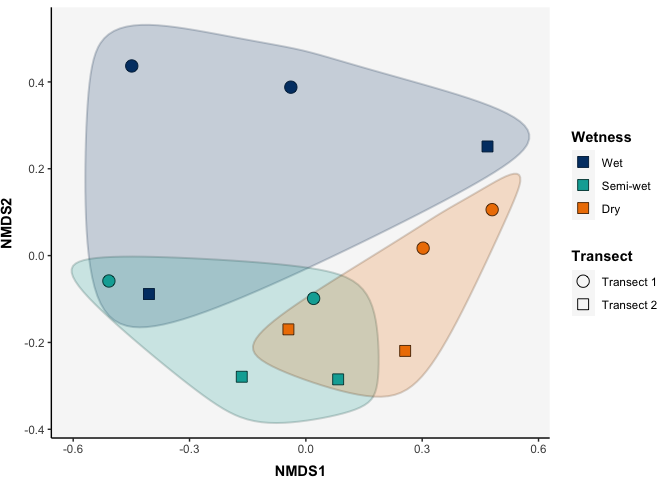
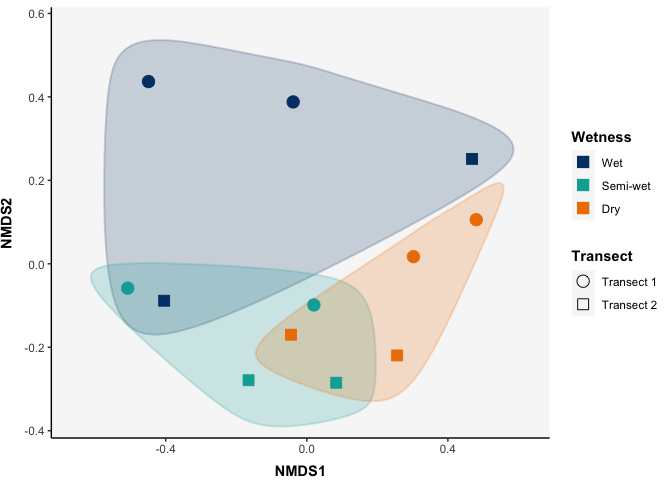
Add color scales to README.

diff --git a/README.md b/README.md
@@ -48,9 +48,9 @@ qaanaaq_rRNA_sub <- subset_samples(qaanaaq_rRNA,
                                    Transect != "Non-transect") 
 
 vis_abundance(physeq = qaanaaq_rRNA_sub,
-              group_x = SampleName,
-              group_split = Wetness,
-              level_glom = Phylum,
+              group_x = "SampleName",
+              group_split = "Wetness",
+              level_glom = "Phylum",
               level_select = NULL,
               group_select = NULL,
               lower_limit = 2,
@@ -73,12 +73,12 @@ cluster based on the available metadata, e.g., wetness.
 
 ``` r
 vis_nmds(qaanaaq_rRNA_sub,
-         convert_to_rel = TRUE,
-         group_color = Wetness,
-         group_shape = Transect,
+         group_color = "Wetness",
+         group_shape = "Transect",
          encircle = TRUE,
          fill_circle = TRUE,
-         scale_circle = 0.09)
+         scale_circle = 0.09,
+         scale_plot = 0.3)
 ```
 
 <div class="figure">
@@ -87,5 +87,15 @@ vis_nmds(qaanaaq_rRNA_sub,
 <p class="caption">
 NMDS plot.
 </p>
+
+</div>
+
+## Details
+
+The available color scales can be seen below.
+
+<div align="right">
+
+<img src="https://github.com/johanneBiO/phyloENVS/blob/main/images/color_scales.png" width="2000"/>
 
 </div>
